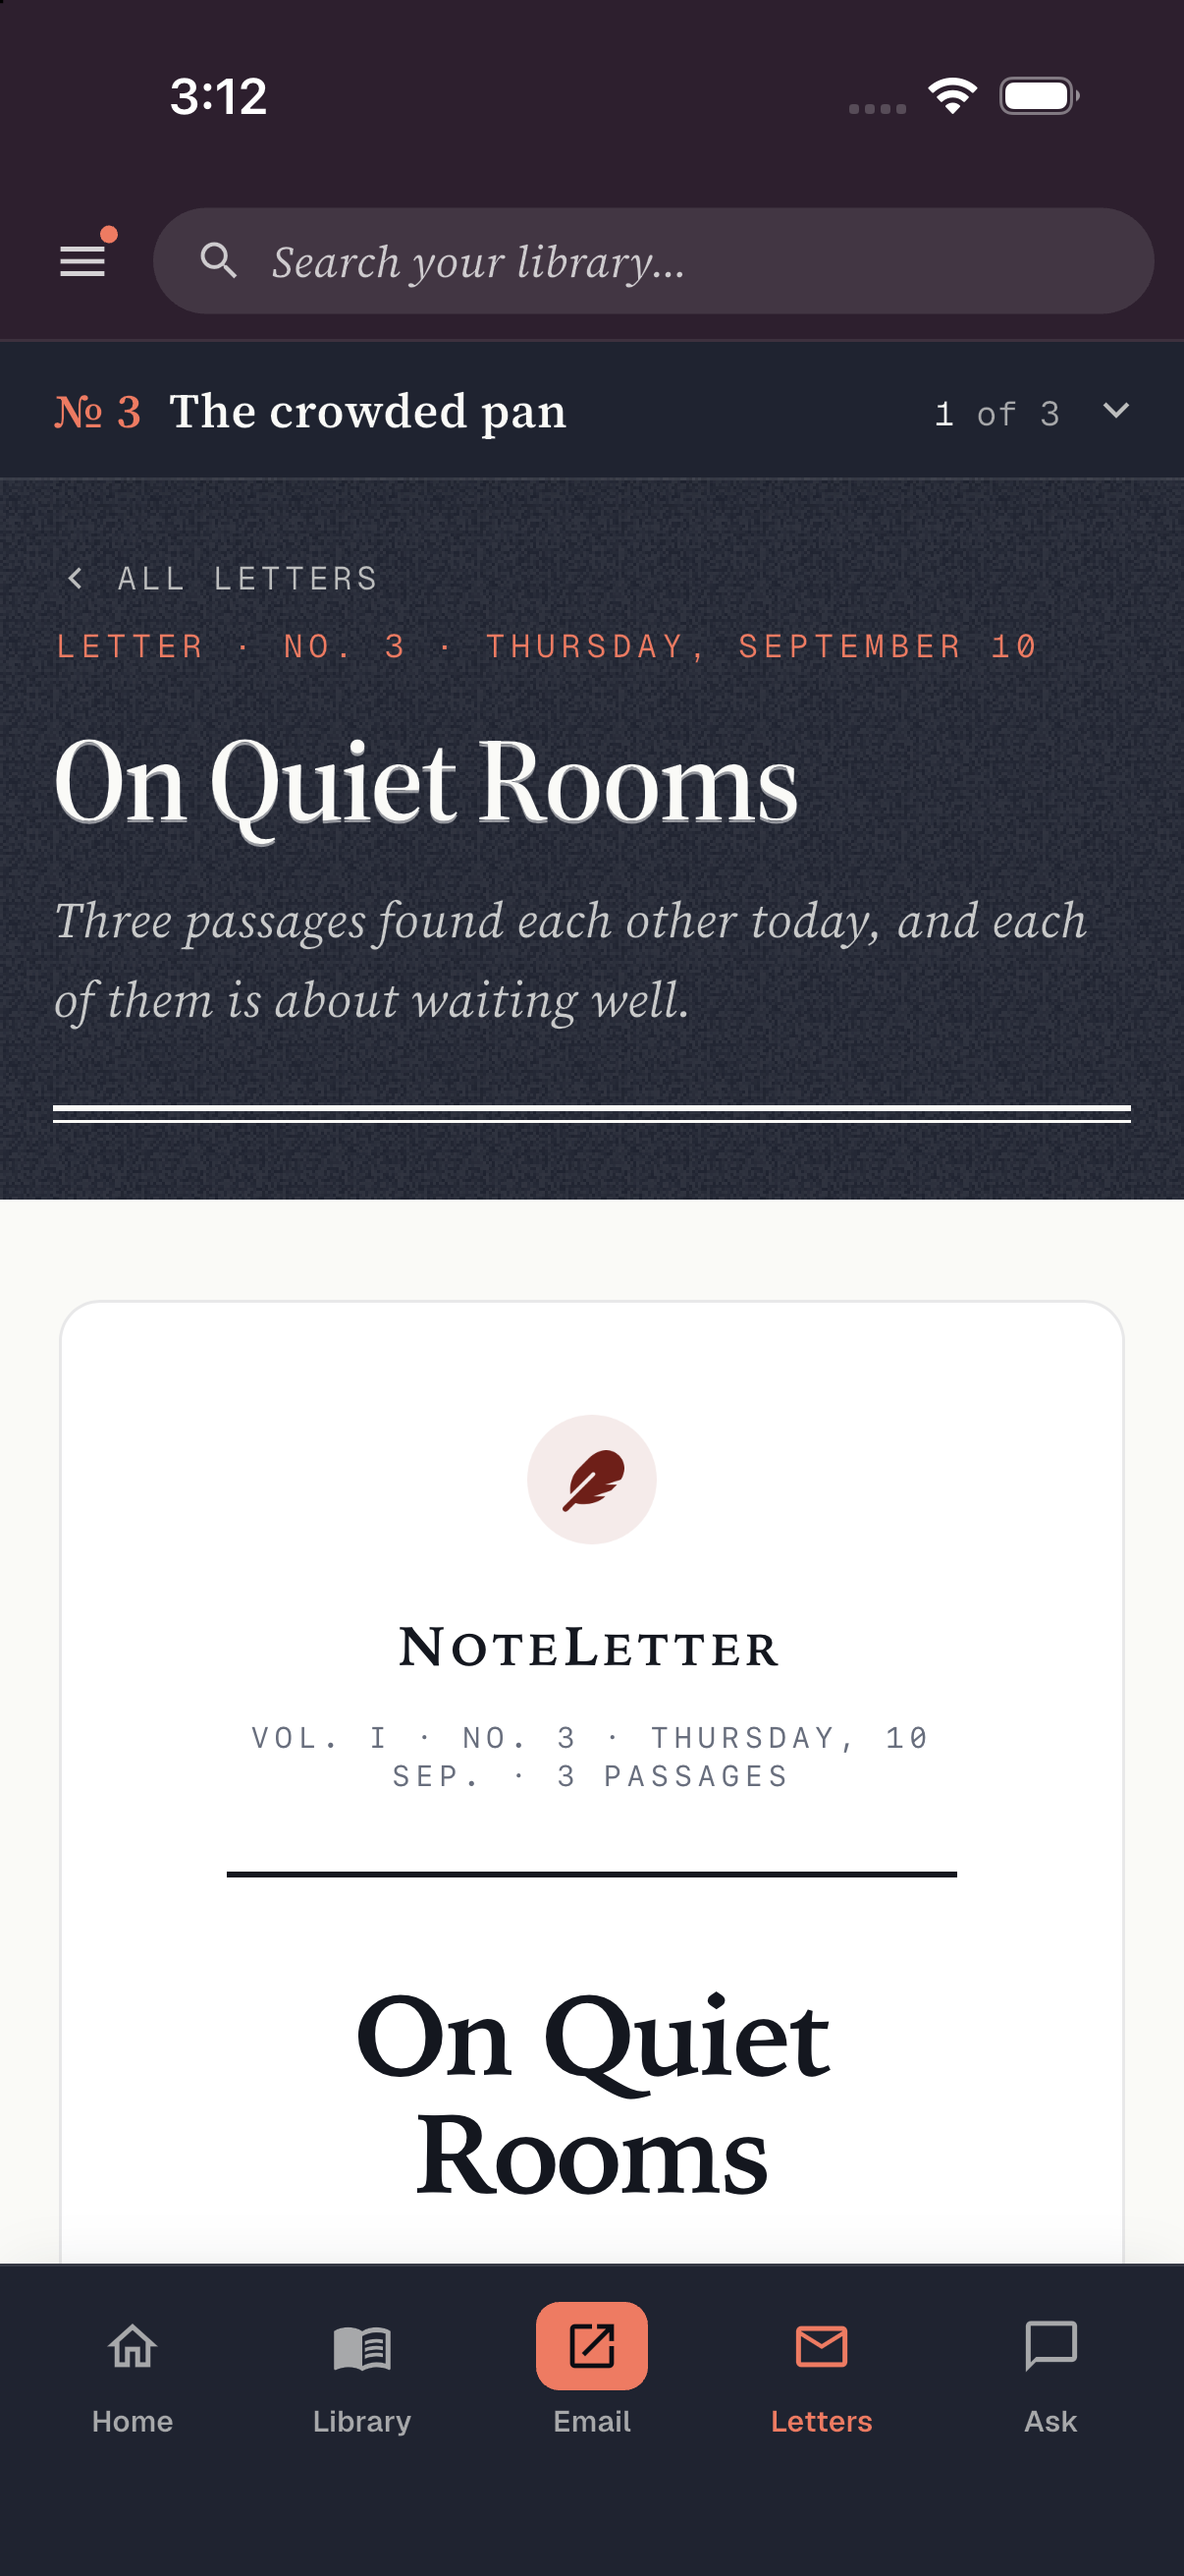
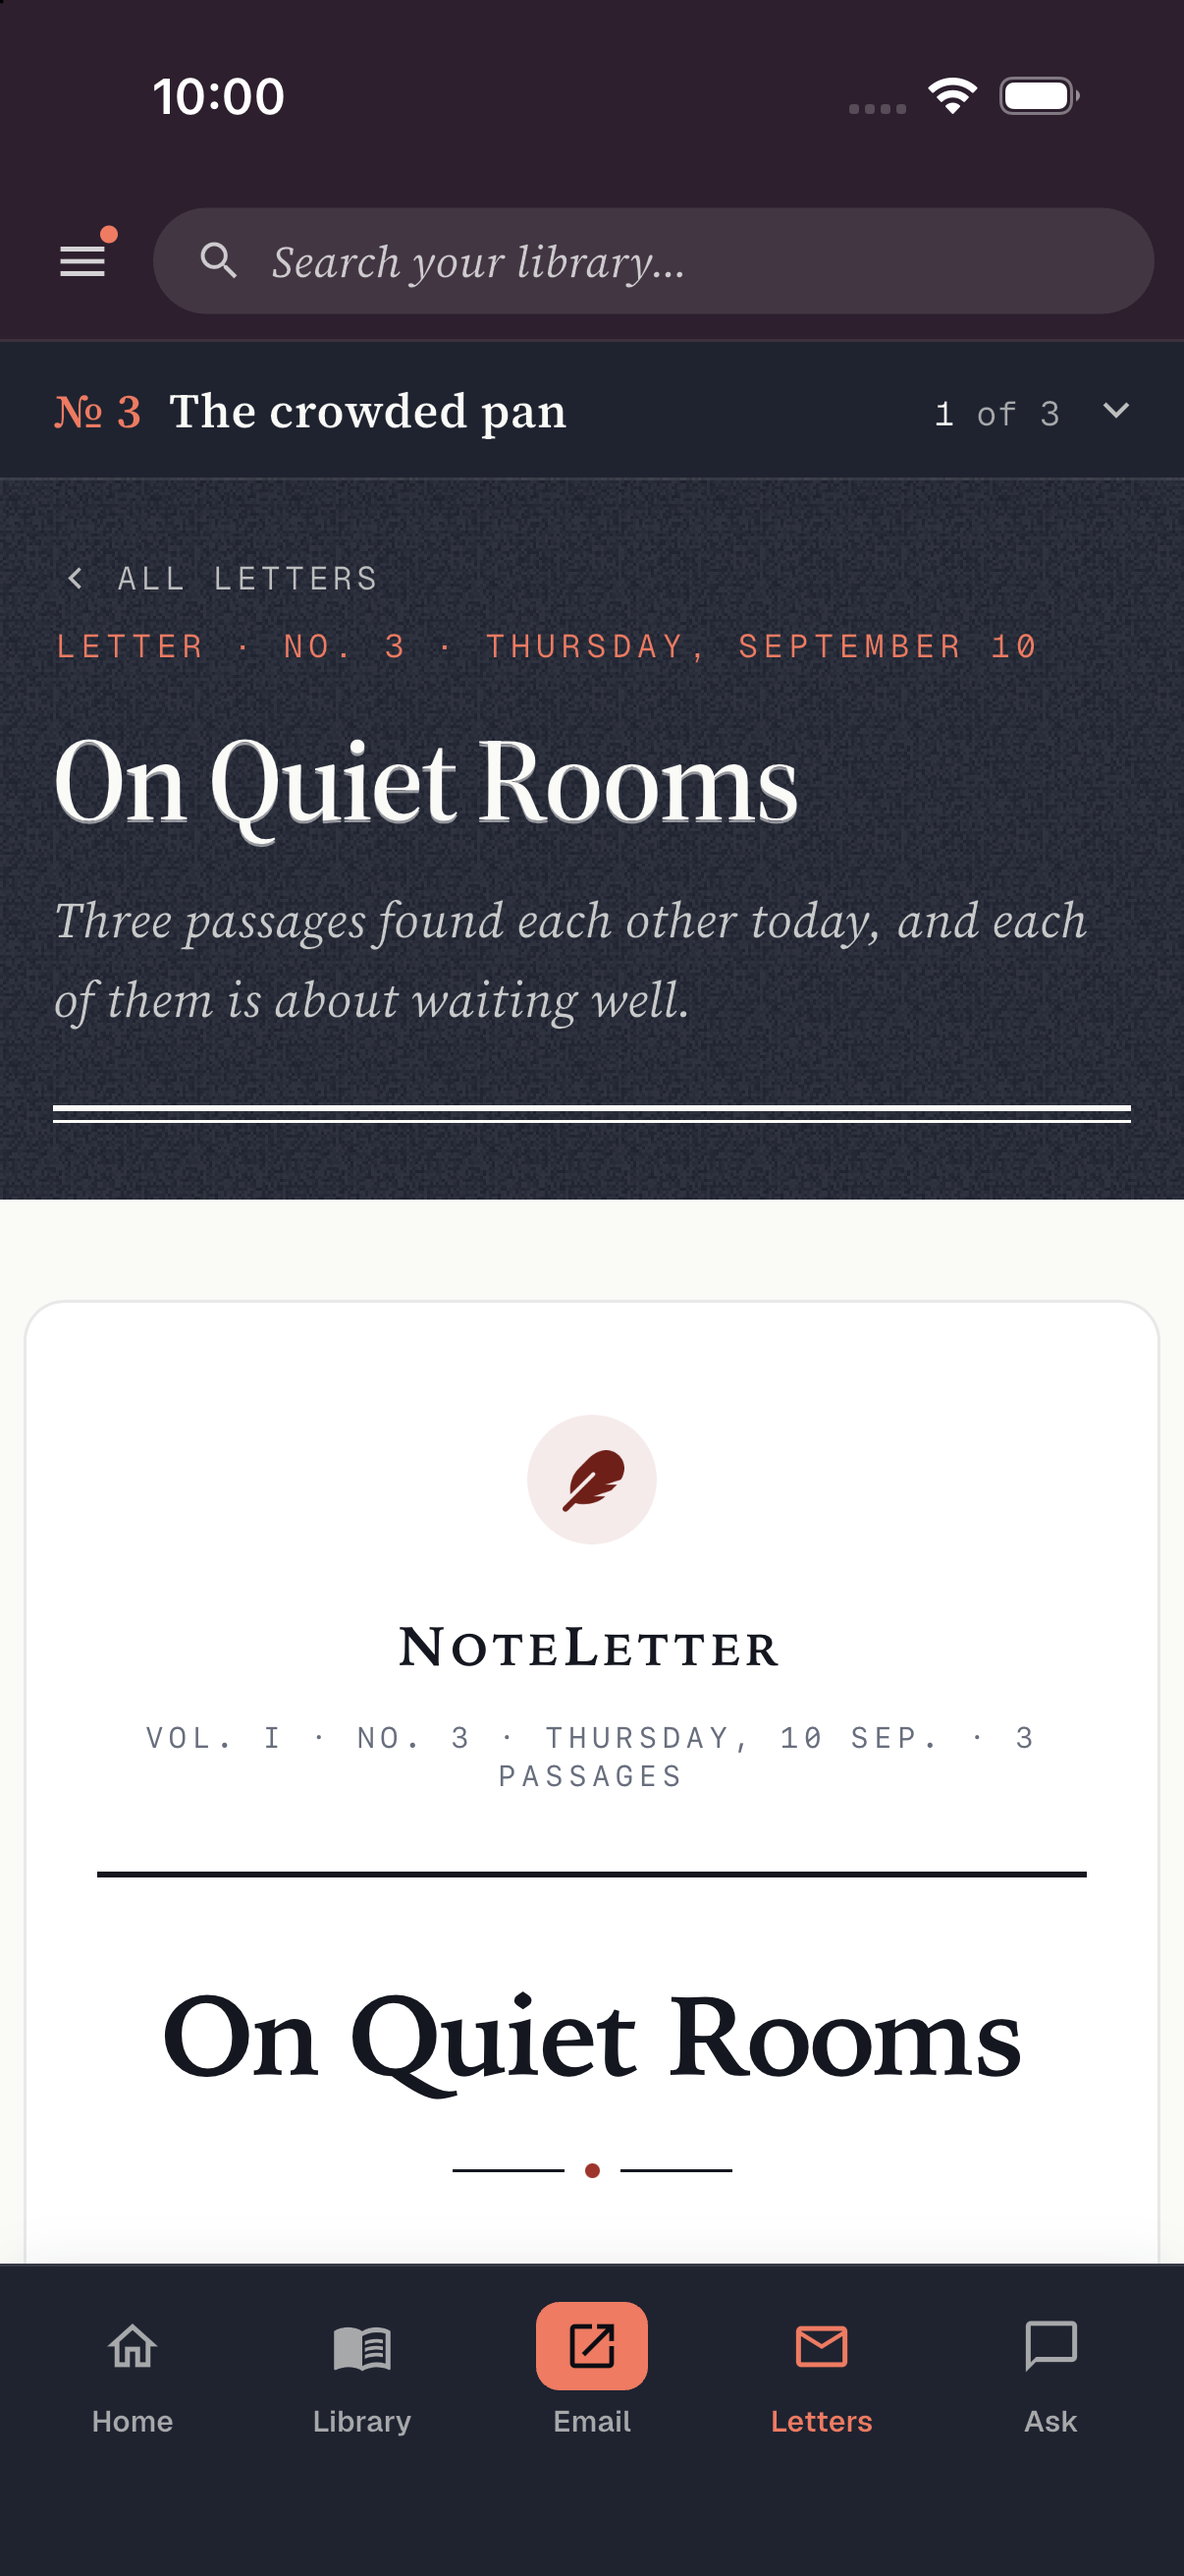
F-170: the letter's host holds the paper at 680 (5.66.0, ADR-235)
Claude-Session: https://claude.ai/code/session_016EQtQM2sAF8vnLy5fSqdaZ

diff --git a/lib/widgets/kit/kit_letter.dart b/lib/widgets/kit/kit_letter.dart
@@ -82,13 +82,14 @@ class KitLetterPaper extends StatefulWidget {
   /// No stylesheet of ours: every colour, face and metric in a letter is inline
   /// (ADR-087 forbids a `<style>` block in the body for a second reason — the
   /// plain-text part is a naive tag strip that a `<style>` block survives). The
-  /// viewport meta and the resets are what make a 640px mail sheet fit a
-  /// phone instead of scrolling sideways.
+  /// viewport meta and the resets are what make a mail sheet fit a phone
+  /// instead of scrolling sideways.
   ///
   /// `[data-nl-letterhead] > table { table-layout: fixed }` is web's own host
-  /// rule (`.letter-sheet`, app-kit.css): the letter's outer table is
-  /// `width="100%"` around a 640px paper that says `max-width: 100%`, which
-  /// AUTO table layout cannot honour, so the paper stayed 640 wide and this
+  /// rule (`.letter-sheet`, app-kit.css): a letter sent before 5.66.0 (ADR-235)
+  /// has an outer table `width="100%"` around a 640px paper that says
+  /// `max-width: 100%`, which AUTO table layout cannot honour, so the paper
+  /// stayed 640 wide and this
   /// host fitted it by scaling the whole page down — every face and margin at
   /// ~0.63 on a phone, the title on one line where the reference wraps it at
   /// its real 38px (letter-reader pair, 2026-10-07). Fixed layout gives the
@@ -101,8 +102,9 @@ class KitLetterPaper extends StatefulWidget {
   /// where the reference is photographed, reflows it at 402 with the same
   /// document). WebKit does not let `max-width: 100%` bound a table whose
   /// own width is set. So the paper — the one table inside the outer
-  /// table's cell — is held to that cell by the host, at most the 640 the
-  /// letter declares: the same box the reference's rule produces.
+  /// table's cell — is held to that cell by the host, at most the 680 a
+  /// letter now declares: the same box the reference's rule produces. A newer
+  /// letter reflows without either rule; the archive keeps the old shape.
   @visibleForTesting
   static String documentFor(String body) =>
       '''
@@ -111,7 +113,7 @@ class KitLetterPaper extends StatefulWidget {
 <style>html,body{margin:0;padding:0;background:${_cssHex(_Paper.ground)};-webkit-text-size-adjust:100%}
 img{max-width:100%;height:auto}table{max-width:100%}
 [data-nl-letterhead]>table{table-layout:fixed}
-[data-nl-letterhead]>table>tbody>tr>td>table{width:100%!important;max-width:640px!important}</style>
+[data-nl-letterhead]>table>tbody>tr>td>table{width:100%!important;max-width:680px!important}</style>
 </head><body>$body</body></html>''';
 
   @override
@@ -194,12 +196,12 @@ class _KitLetterPaperState extends State<KitLetterPaper> {
   /// Fit the letter to the screen the way a phone mail client does, and
   /// report how tall it ends up.
   ///
-  /// A sent letter is a **640px sheet** — that is the width mail is designed
-  /// at, and it is not going to change for a phone. `width=device-width` does
-  /// not rescue it either: the sheet's cells carry 56px of padding each side,
-  /// so its min-content width is wider than a phone and `max-width:100%` has
-  /// nothing left to give. It simply hangs off the right edge, which is how
-  /// the first render of this looked.
+  /// A letter is meant to reflow (5.66.0, ADR-235), and the host rules above
+  /// reflow an older one. This is the floor under both: when something in a
+  /// body is still wider than the screen, `width=device-width` does not rescue
+  /// it, because `max-width:100%` has nothing left to give below a body's
+  /// min-content width. It simply hangs off the right edge, which is how the
+  /// first render of this looked.
   ///
   /// So the page is laid out at **its own measured width** and scaled down to
   /// the screen — exactly what mobile Safari and Mail do with a desktop-width

diff --git a/test/kit/kit_smoke_test.dart b/test/kit/kit_smoke_test.dart
@@ -1791,18 +1791,23 @@ void main() {
       // not rewrite it to suit a renderer (ADR-087) — the reader would be
       // looking at something nobody was sent.
       expect(doc, contains(body));
-      // What we add: a viewport, so a 640px mail sheet fits a phone instead of
+      // What we add: a viewport, so a mail sheet fits a phone instead of
       // scrolling sideways, and the letter's own frozen ground behind it.
       expect(doc, contains('width=device-width'));
       expect(doc, contains('#FAFAF7'));
       // …and web's one host rule (`.letter-sheet [data-nl-letterhead] >
-      // table`): without it the 640px paper cannot shrink, and the page was
-      // scaled to fit — every face at ~0.63 of the reference's on a phone.
+      // table`): without it the 640px paper of a letter sent before 5.66.0
+      // cannot shrink, and the page was scaled to fit — every face at ~0.63
+      // of the reference's on a phone.
       final web = File('../NoteLetter-web/src/styles/app-kit.css')
           .readAsStringSync();
       expect(web, contains('.letter-sheet [data-nl-letterhead] > table { table-layout: fixed; }'),
           reason: "the reference's host rule moved — look again");
       expect(doc, contains('[data-nl-letterhead]>table{table-layout:fixed}'));
+      // Both hosts stop the paper where the letter does (ADR-235).
+      expect(web, contains('max-width: 680px !important'),
+          reason: "the reference's paper cap moved — look again");
+      expect(doc, contains('max-width:680px!important'));
       // …and no font, colour or metric of ours: every one of those is inline
       // in the letter and must win.
       expect(doc, isNot(contains('Source Serif')));

diff --git a/QUEUE.md b/QUEUE.md
@@ -2594,3 +2594,16 @@ a new obligation on a finished screen is a new item.
 - shots: letters; ask-turn-failed
 - extra_gates: flutter test test/contract
 - notes: 5.60.1 is web's cloud lane W, taken as 5.59.1 on the lane. Web's tests are the acceptance list: letters-sent-figure.test.js, ask-refused-turn.test.js. Also correct the stale comment above missionMax in lib/services/api.dart: since 5.61.0 the endpoint refuses past the bound (fn_newsletter_settings).
+
+## F-170 · The letter's host holds the paper at 680 (5.66.0, ADR-235)
+- status: done 2026-11-04
+- screen: letters
+- route: /letters
+- spec: spec/api/newsletter.md; spec/screens/letters.md
+- web: src/styles/app-kit.css
+- flutter: lib/widgets/kit/kit_letter.dart; test/kit/kit_smoke_test.dart
+- folds: 5.66.0
+- device_test: none
+- shots: letter-reader
+- extra_gates: flutter test test/kit/kit_smoke_test.dart --plain-name "a letterheaded body is wrapped"
+- notes: The renderer moved, so every new letter reaches this host wider. The host's cap goes 640 to 680 and its prose stops describing a fixed sheet. A phone never reaches the cap, so the frame is about the letter, not the rule: re-seed with tool/seed_letters.py (the real renderer), then shoot and look at a passage's column at phone width. Number held for local work by TODO's round 3 line, so it is not max+1.
